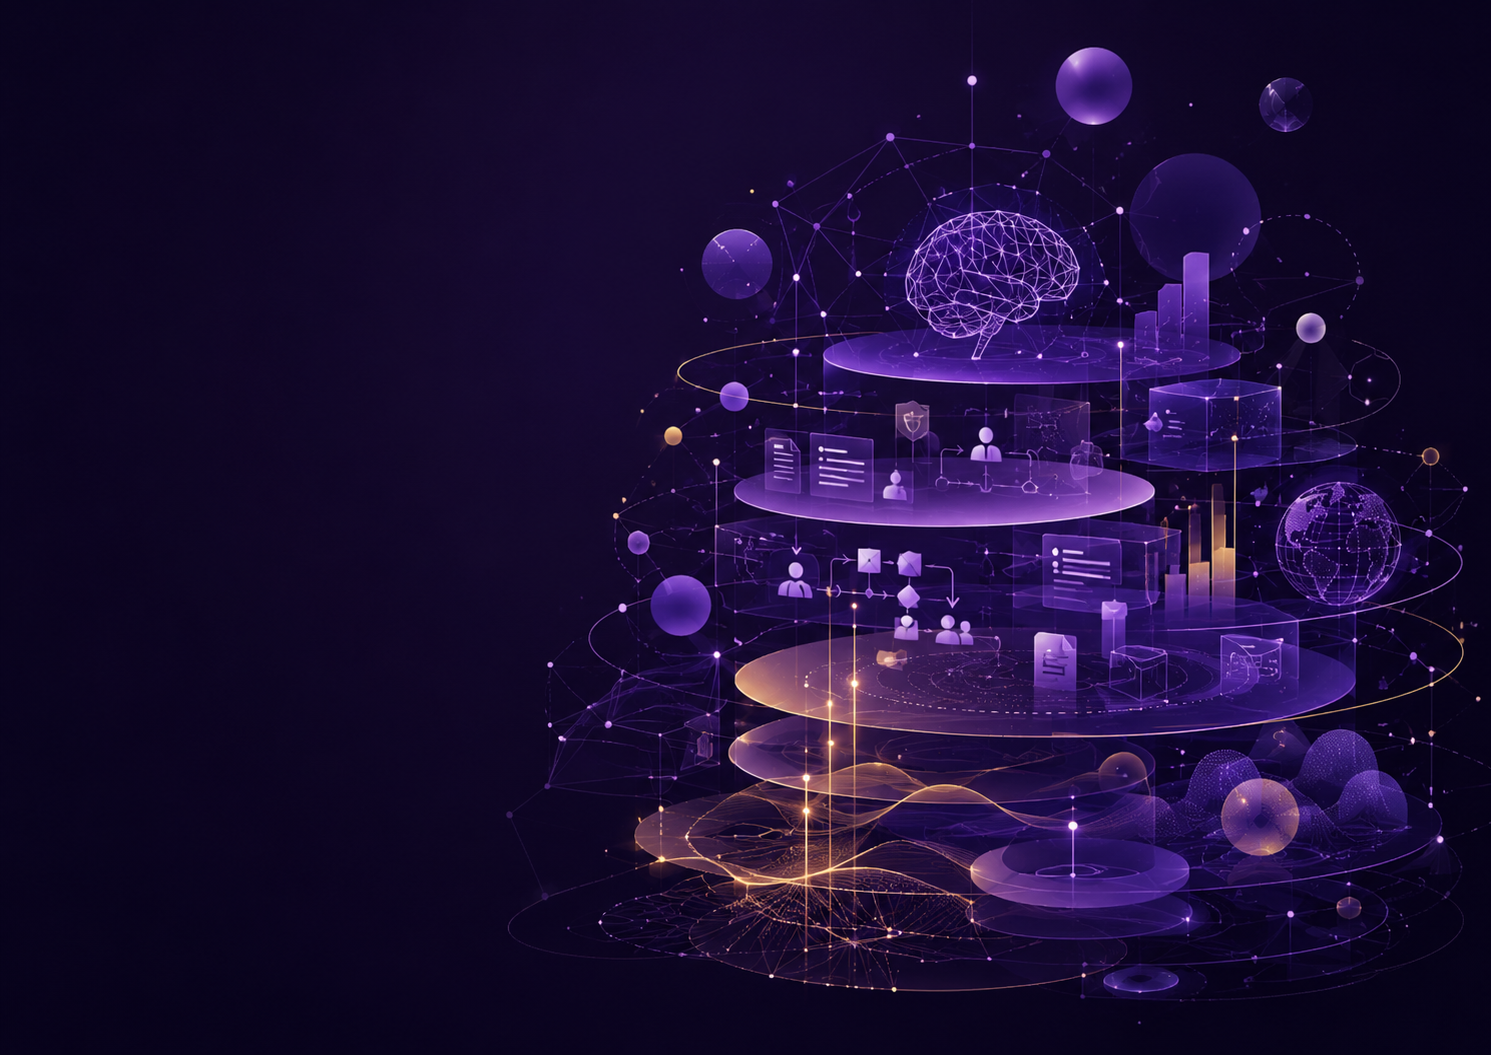
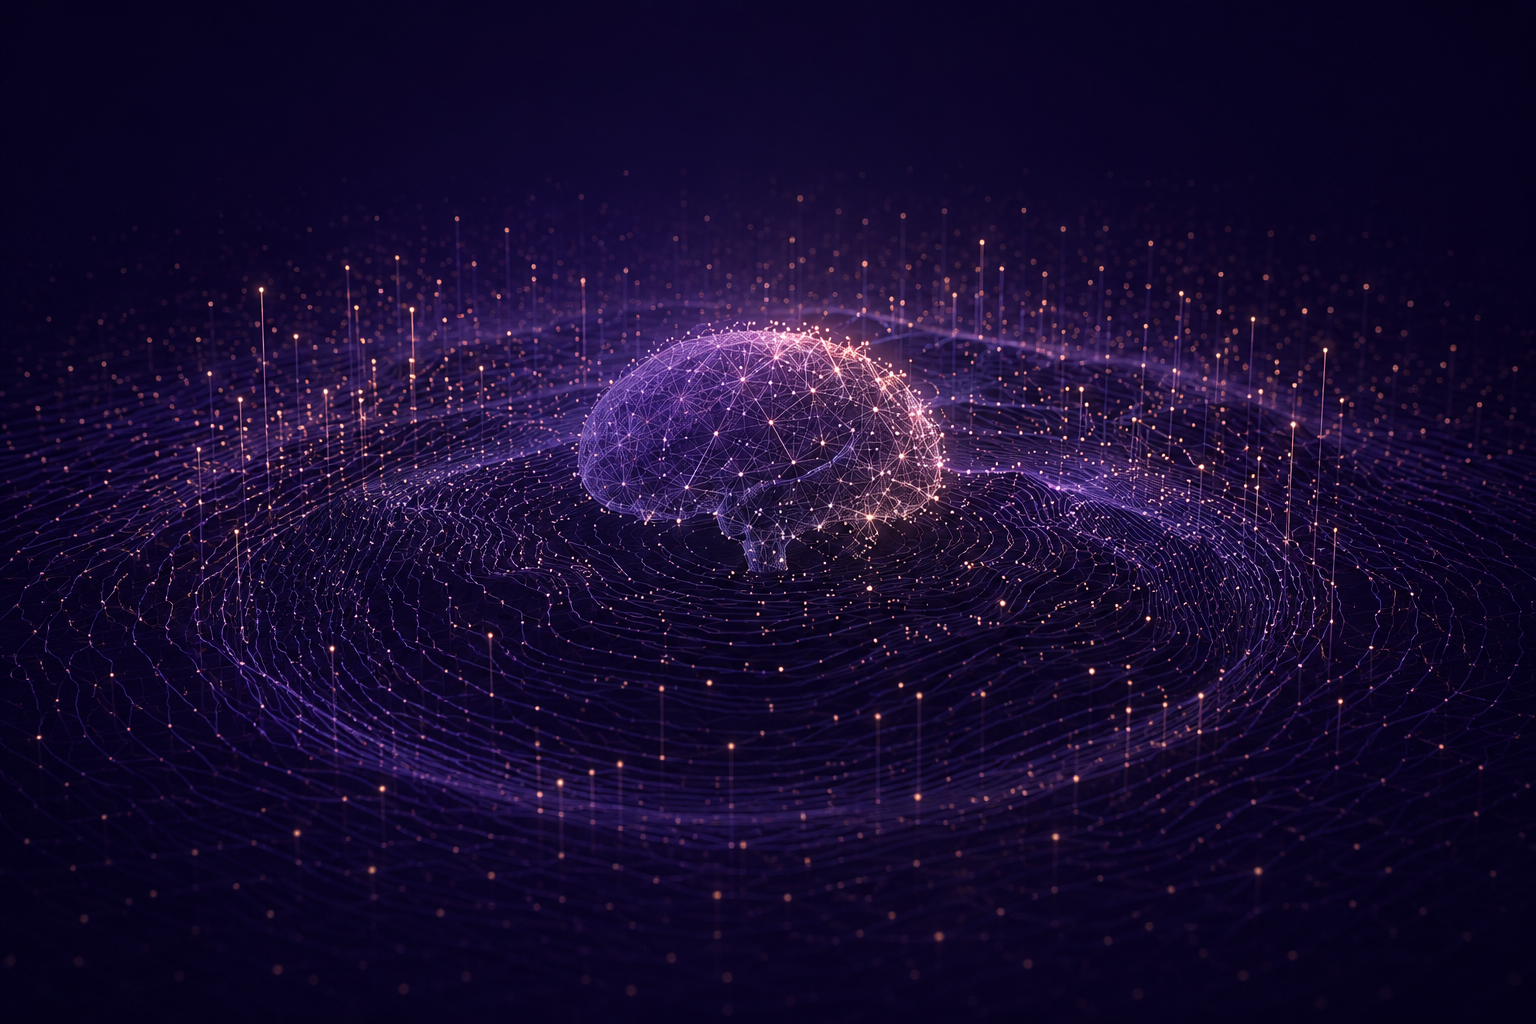
chore(brand): promote final theory hero artwork

diff --git a/app/thinking/theory/page.tsx b/app/thinking/theory/page.tsx
@@ -216,7 +216,7 @@ export default function TheoryPage() {
                 alt=""
                 className="theory-book-hero-image"
                 loading="eager"
-                src="/brand-canon/_incoming/001-organizational-mind-theory-Neu.png"
+                src="/brand-canon/001-organizational-mind-theory.png"
               />
               <div className="theory-book-hero-shade" />
             </div>